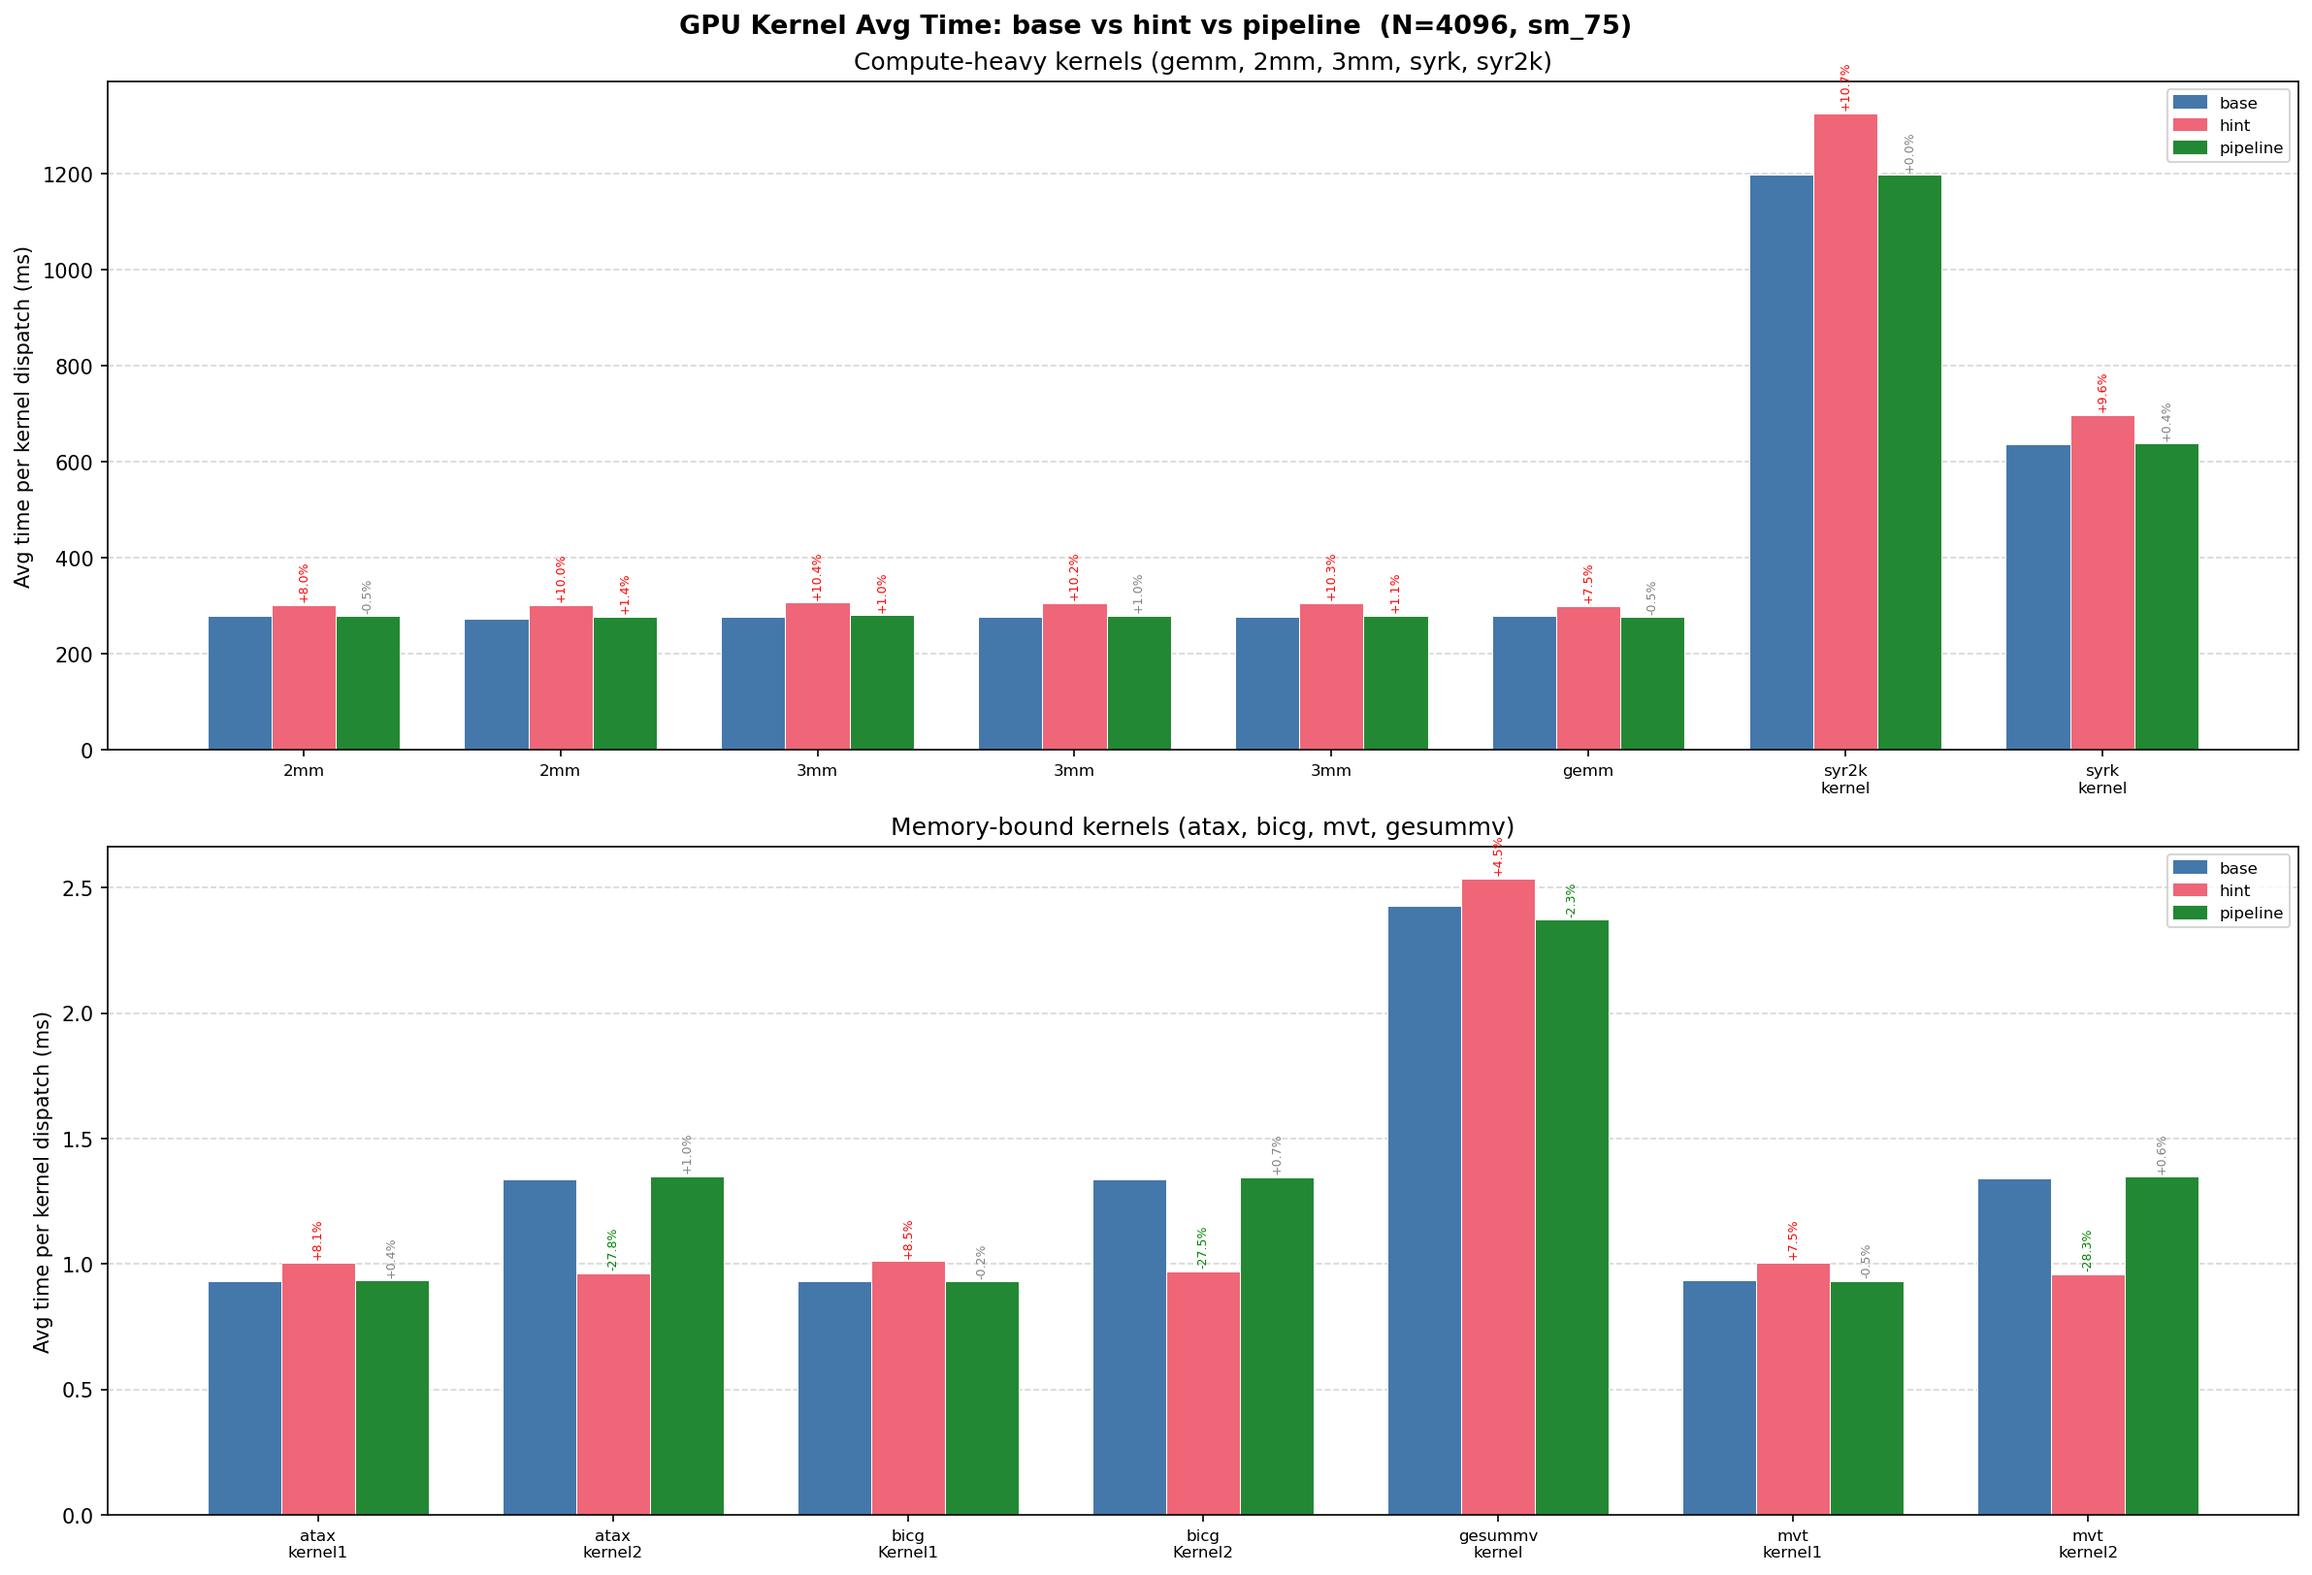
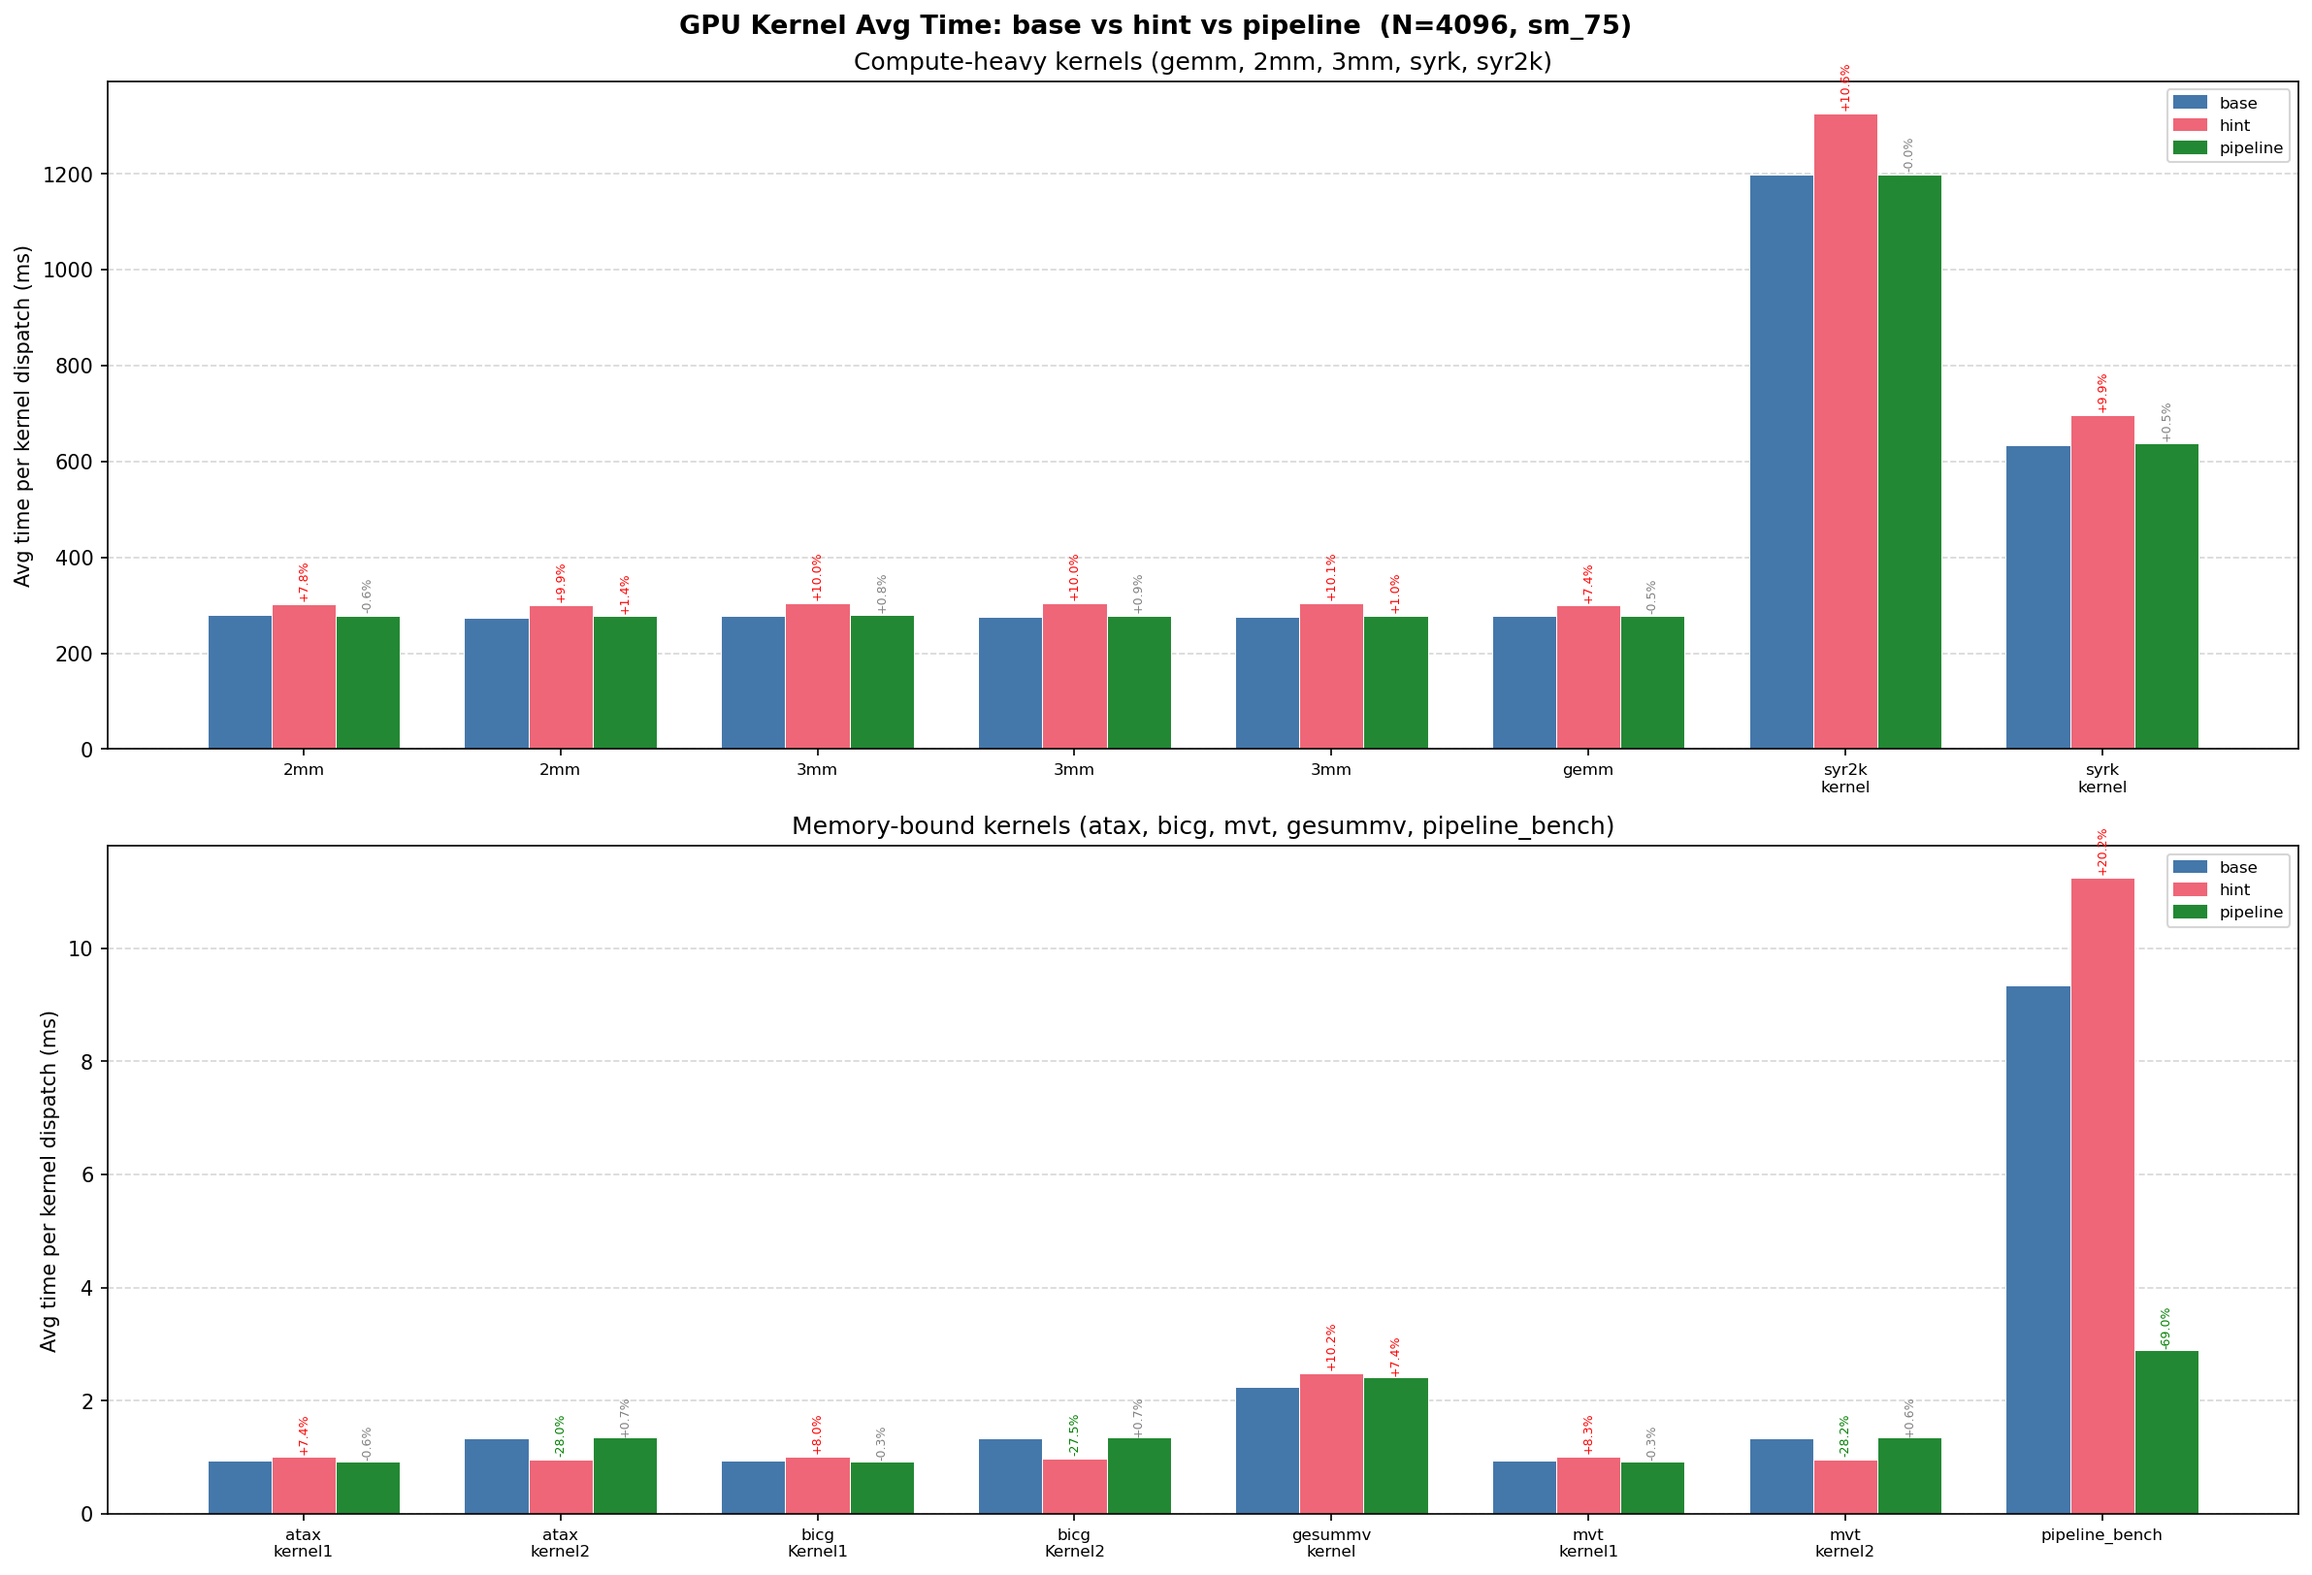
bruh

diff --git a/benchmarks/plot_sweep.py b/benchmarks/plot_sweep.py
@@ -1,0 +1,192 @@
+#!/usr/bin/env python3
+"""
+Plot hint/pipeline % change vs baseline as a function of N.
+Reads all report_{kernel}_{variant}_N{N}.nsys-rep files from a reports directory.
+
+Usage: python3 plot_sweep.py [reports_dir] [--out sweep_results.png] [--kernels K1 K2 ...]
+"""
+
+import subprocess, os, re, sys, argparse
+import matplotlib.pyplot as plt
+import matplotlib.cm as cm
+import numpy as np
+
+parser = argparse.ArgumentParser()
+parser.add_argument("reports_dir", nargs="?", default="reports")
+parser.add_argument("--out", default="sweep_results.png")
+parser.add_argument("--kernels", nargs="+", default=None,
+                    help="subset of kernels to plot (default: all found)")
+args = parser.parse_args()
+
+REPORTS_DIR = args.reports_dir
+if not os.path.isdir(REPORTS_DIR):
+    sys.exit(f"reports dir not found: {REPORTS_DIR}")
+
+# ── parse all reports ────────────────────────────────────────────────────────
+# data[benchmark][N][sub_kernel][variant] = avg_ms
+data = {}
+
+pat = re.compile(r"report_(.+?)_(base|hint|pipeline)_N(\d+)\.nsys-rep$")
+
+all_files = sorted(os.listdir(REPORTS_DIR))
+total = sum(1 for f in all_files if pat.match(f))
+done = 0
+
+for fname in all_files:
+    m = pat.match(fname)
+    if not m:
+        continue
+    bench, variant, n_str = m.group(1), m.group(2), m.group(3)
+    N = int(n_str)
+    fpath = os.path.join(REPORTS_DIR, fname)
+
+    done += 1
+    print(f"  [{done}/{total}] parsing {fname}", end="\r")
+
+    try:
+        out = subprocess.check_output(
+            ["nsys", "stats", "--force-export=true", fpath],
+            stderr=subprocess.DEVNULL, text=True
+        )
+    except (subprocess.CalledProcessError, FileNotFoundError):
+        print(f"\n  WARNING: nsys stats failed for {fname}")
+        continue
+
+    in_section = False
+    for line in out.splitlines():
+        if "CUDA GPU Kernel Summary" in line:
+            in_section = True
+            continue
+        if in_section:
+            if "kern_imp" not in line:
+                if line.startswith(" **") or line.strip().startswith("**"):
+                    in_section = False
+                continue
+            parts = line.split()
+            kname = re.sub(r"^__clang_ocl_kern_imp_", "", parts[-1])
+            avg_ns = float(parts[-6])
+            (data
+             .setdefault(bench, {})
+             .setdefault(N, {})
+             .setdefault(kname, {}))[variant] = avg_ns / 1e6
+
+print()
+
+if not data:
+    sys.exit("No data parsed — check that reports exist and nsys stats works.")
+
+# ── filter to requested kernels ───────────────────────────────────────────────
+if args.kernels:
+    data = {k: v for k, v in data.items() if k in args.kernels}
+
+benches = sorted(data.keys())
+N_values_global = sorted({N for b in data.values() for N in b.keys()})
+
+VARIANTS = ["hint", "pipeline"]
+COLORS   = {"hint": "#EE6677", "pipeline": "#228833"}
+MARKERS  = {"hint": "o", "pipeline": "s"}
+
+# ── one subplot per benchmark ─────────────────────────────────────────────────
+ncols = 3
+nrows = (len(benches) + ncols - 1) // ncols
+fig, axes = plt.subplots(nrows, ncols, figsize=(5 * ncols, 4 * nrows),
+                         sharex=False, sharey=False)
+axes_flat = axes.flatten() if hasattr(axes, "flatten") else [axes]
+
+fig.suptitle(
+    "Hint vs Pipeline % change vs baseline  —  sweep over N\n"
+    "(negative = faster than baseline)",
+    fontsize=13, fontweight="bold"
+)
+
+for ax_idx, bench in enumerate(benches):
+    ax = axes_flat[ax_idx]
+    bench_data = data[bench]
+
+    # collect all sub-kernels for this benchmark
+    all_knames = sorted({kn
+                         for n_data in bench_data.values()
+                         for kn in n_data.keys()})
+
+    plotted_anything = False
+    for variant in VARIANTS:
+        # one line per sub-kernel × variant
+        kname_colors = cm.tab10(np.linspace(0, 0.5, len(all_knames)))
+        for ki, kname in enumerate(all_knames):
+            xs, ys = [], []
+            for N in sorted(bench_data.keys()):
+                kdata = bench_data[N].get(kname, {})
+                bv = kdata.get("base", 0)
+                vv = kdata.get(variant, 0)
+                if bv > 0 and vv > 0:
+                    xs.append(N)
+                    ys.append((vv - bv) / bv * 100)
+
+            if not xs:
+                continue
+
+            # label: skip sub-kernel suffix if it matches bench name
+            short = kname
+            for prefix in [bench + "_", bench]:
+                if short.startswith(prefix):
+                    short = short[len(prefix):]
+            label = f"{variant}  [{short}]" if short != kname else variant
+
+            ls = "-" if variant == "hint" else "--"
+            ax.plot(xs, ys,
+                    color=COLORS[variant],
+                    marker=MARKERS[variant],
+                    linestyle=ls,
+                    markersize=4,
+                    linewidth=1.5,
+                    alpha=0.85,
+                    label=label)
+            plotted_anything = True
+
+    ax.axhline(0, color="black", linewidth=0.8, linestyle=":")
+    ax.set_xscale("log", base=2)
+    ax.set_xlabel("N", fontsize=9)
+    ax.set_ylabel("% change vs base", fontsize=9)
+    ax.set_title(bench, fontsize=10, fontweight="bold")
+    ax.yaxis.grid(True, linestyle="--", alpha=0.4)
+    ax.set_axisbelow(True)
+    if plotted_anything:
+        ax.legend(fontsize=7, loc="best")
+
+# hide unused subplots
+for ax_idx in range(len(benches), len(axes_flat)):
+    axes_flat[ax_idx].set_visible(False)
+
+plt.tight_layout()
+plt.savefig(args.out, dpi=150, bbox_inches="tight")
+print(f"Saved: {args.out}")
+
+# ── summary table ─────────────────────────────────────────────────────────────
+print(f"\n{'Benchmark':<20} {'Sub-kernel':<22}", end="")
+for N in N_values_global:
+    print(f"  {'N='+str(N):>8}", end="")
+print()
+print("-" * (42 + 10 * len(N_values_global)))
+
+for bench in benches:
+    bench_data = data[bench]
+    all_knames = sorted({kn for nd in bench_data.values() for kn in nd.keys()})
+    for kname in all_knames:
+        for variant in VARIANTS:
+            short = kname
+            for prefix in [bench + "_", bench]:
+                if short.startswith(prefix):
+                    short = short[len(prefix):]
+            row_label = f"{bench}/{variant}"
+            print(f"{row_label:<20} {short:<22}", end="")
+            for N in N_values_global:
+                kdata = bench_data.get(N, {}).get(kname, {})
+                bv = kdata.get("base", 0)
+                vv = kdata.get(variant, 0)
+                if bv > 0 and vv > 0:
+                    pct = (vv - bv) / bv * 100
+                    color = "\033[92m" if pct < -1 else ("\033[91m" if pct > 1 else "")
+                    print(f"  {color}{pct:>+7.1f}%\033[0m", end="")
+                else:
+                    print(f"  {'n/a':>8}", end="")
+            print()

diff --git a/benchmarks/plot_results.py b/benchmarks/plot_results.py
@@ -37,7 +37,7 @@ for fname in sorted(os.listdir(REPORTS_DIR)):
 
     try:
         out = subprocess.check_output(
-            ["nsys", "stats", fpath],
+            ["nsys", "stats", "--force-export=true", fpath],
             stderr=subprocess.DEVNULL, text=True
         )
     except (subprocess.CalledProcessError, FileNotFoundError):
